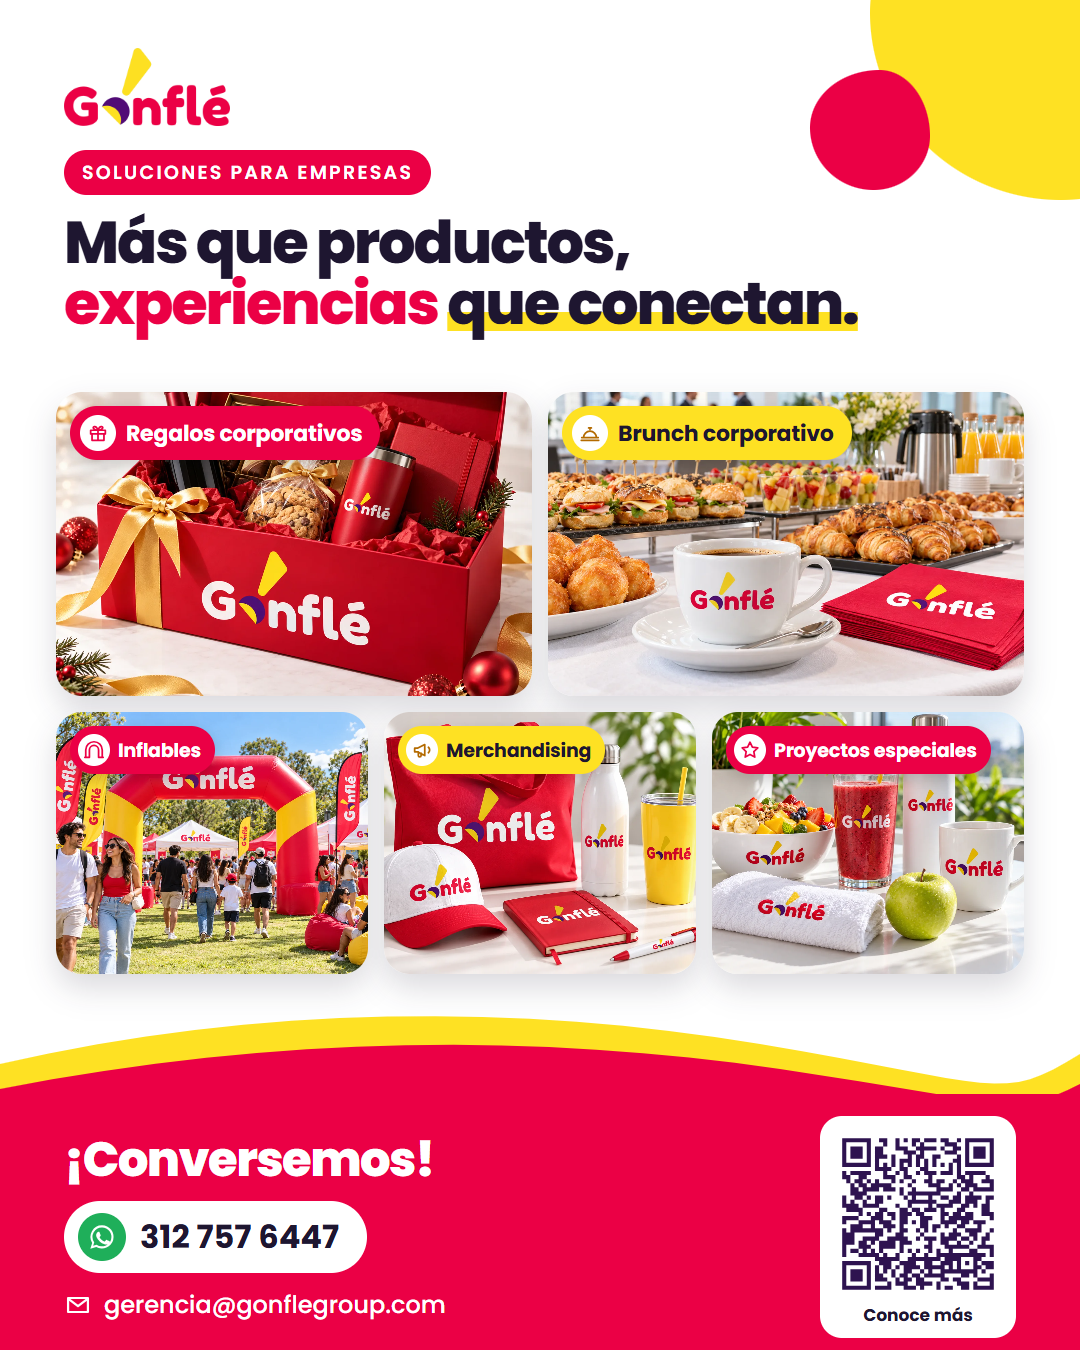
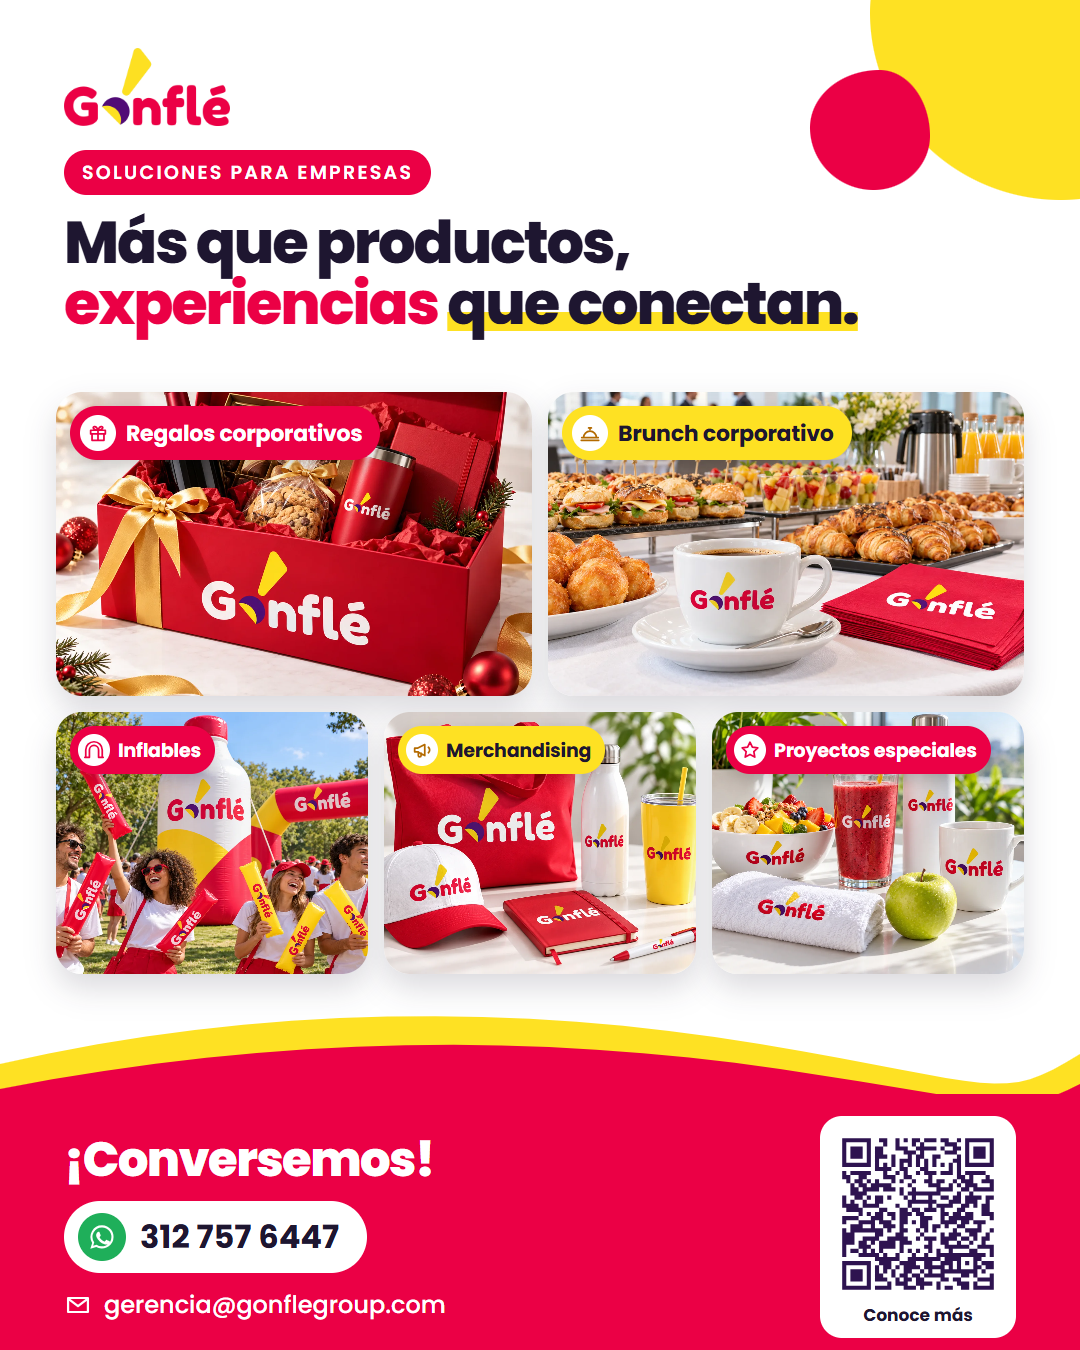
Inflables: foto combinada (opción B) por defecto, también en PDF e imagen de WhatsApp

Changed region(s): [[0.0306, 0.5289, 0.3667, 0.7467]]

diff --git a/index.html b/index.html
@@ -76,7 +76,7 @@ h2{font-size:clamp(1.8rem,3.4vw,2.5rem);font-weight:800;letter-spacing:-.03em}
 .items{margin-bottom:24px;color:var(--tinta);font-size:1.07rem;line-height:1.9}
 .items li{display:inline-block;max-width:100%}
 .items li:not(:last-child)::after{content:"·";color:var(--rojo);font-weight:700;margin:0 10px}
-/* Inflables: A = foto principal y dos pequeñas (por defecto), B = una sola foto combinada, C = tres fotos iguales a lo ancho */
+/* Inflables: B = una sola foto combinada (por defecto, clase inf-b), A = foto principal y dos pequeñas, C = tres fotos iguales a lo ancho */
 .inf-vis{display:grid;grid-template-columns:1fr 1fr;gap:14px}
 .inf-vis figure{margin:0}
 .inf-vis figcaption{margin-top:8px;font-size:.92rem;font-weight:600;color:var(--tinta)}
@@ -251,7 +251,7 @@ footer img{height:38px}
           <a class="enlace" data-wa="catering" href="#" target="_blank" rel="noopener">Cotizar brunch<svg><use href="#i-flecha"/></svg></a>
         </div>
       </article>
-      <article class="linea" id="inflables">
+      <article class="linea inf-b" id="inflables">
         <div class="linea-vis inf-vis">
           <figure class="inf-p"><img src="assets/img/foto-inflables.webp" alt="Arco inflable a motor con el logo de Gonflé en una activación de marca" loading="lazy"><figcaption>Inflables a motor</figcaption></figure>
           <figure class="inf-s"><img src="assets/img/foto-inf-golpeadores.webp" alt="Golpeadores inflables con el logo de Gonflé en un estadio" loading="lazy"><figcaption>Golpeadores en válvula</figcaption></figure>
@@ -371,9 +371,9 @@ const MENSAJES = {
   impresos: "Hola Gonflé, quiero cotizar impresos, empaques o material POP con mi marca.",
   bienestar: "Hola Gonflé, quiero contarles un proyecto especial para mi empresa.",
 };
-// ?inflables=b (una foto combinada) o ?inflables=c (tres fotos a lo ancho); por defecto, foto principal y dos pequeñas
+// Inflables: por defecto una foto combinada (B); ?inflables=a muestra foto principal y dos pequeñas, ?inflables=c tres fotos a lo ancho
 const vInf = new URLSearchParams(location.search).get("inflables");
-if (vInf === "b" || vInf === "c") document.getElementById("inflables").classList.add("inf-" + vInf);
+if (vInf === "a" || vInf === "c") { const s = document.getElementById("inflables"); s.classList.remove("inf-b"); if (vInf === "c") s.classList.add("inf-c"); }
 // ?fotos=gemini muestra la versión anterior de las imágenes (Gemini), guardada como respaldo
 if (new URLSearchParams(location.search).get("fotos") === "gemini") {
   document.querySelectorAll('img[src*="assets/img/foto-"]').forEach((i) => { i.src = i.getAttribute("src").replace("assets/img/foto-", "assets/img/gemini/foto-"); });

diff --git a/fuentes/pdf.html b/fuentes/pdf.html
@@ -115,7 +115,7 @@ h2{font-size:16pt;margin-bottom:.16in}
     <div class="lineas">
       <div class="ln"><div class="ln-foto"><img src="../assets/img/foto-regalos.webp" alt=""></div><div class="ln-txt"><h3>Regalos corporativos y cajas de temporada</h3><ul class="puntos"><li>Cajas personalizadas (se arman a tu gusto)</li><li>Kits empresariales</li><li>Regalos para colaboradores, clientes y proveedores</li><li>Detalles que dejan huella</li></ul></div></div>
       <div class="ln"><div class="ln-foto"><img src="../assets/img/foto-catering.webp" alt=""></div><div class="ln-txt"><h3>Brunch corporativo para eventos</h3><ul class="puntos"><li>Desayunos y brunch</li><li>Refrigerios</li><li>Lunch y almuerzos</li><li>Estaciones de alimentos y eventos corporativos</li></ul></div></div>
-      <div class="ln"><div class="ln-foto"><img src="../assets/img/foto-inflables.webp" alt=""></div><div class="ln-txt"><h3>Inflables y activaciones de marca</h3><ul class="puntos"><li>Inflables publicitarios</li><li>Eventos y activaciones</li><li>Inflables a motor, golpeadores y sellados</li><li>Experiencias de marca a la idea del cliente</li></ul></div></div>
+      <div class="ln"><div class="ln-foto"><img src="../assets/img/foto-inf-mix.webp" alt=""></div><div class="ln-txt"><h3>Inflables y activaciones de marca</h3><ul class="puntos"><li>Inflables publicitarios</li><li>Eventos y activaciones</li><li>Inflables a motor, golpeadores y sellados</li><li>Experiencias de marca a la idea del cliente</li></ul></div></div>
       <div class="ln"><div class="ln-foto"><img src="../assets/img/foto-merch.webp" alt=""></div><div class="ln-txt"><h3>Publicidad y merchandising</h3><ul class="puntos"><li>Productos promocionales</li><li>Textiles personalizados</li><li>Vasos, copas y caramañolas</li></ul></div></div>
       <div class="ln"><div class="ln-foto"><img src="../assets/img/foto-impresos.webp" alt=""></div><div class="ln-txt"><h3>Impresos, empaques y material POP</h3><ul class="puntos"><li>Litografía: cajas, bolsas, calendarios y exhibidores</li><li>Flexografía: plastilonas, banderines y bolsas</li><li>Material sostenible: PET reciclado</li></ul></div></div>
       <div class="ln"><div class="ln-foto"><img src="../assets/img/foto-salud.webp" alt=""></div><div class="ln-txt"><h3>Proyectos especiales y personalizados</h3><ul class="puntos"><li>Semana de la Salud y bienestar</li><li>Fin de año empresarial</li><li>Lanzamientos de producto</li><li>Bienvenida de colaboradores</li></ul></div></div>

diff --git a/fuentes/whatsapp.html b/fuentes/whatsapp.html
@@ -77,7 +77,7 @@ html,body{margin:0;width:1080px;height:1350px;overflow:hidden}
   <div class="fotos">
     <div class="f g"><img src="../assets/img/foto-regalos.webp" alt=""><span class="pill r"><i><svg><use href="#i-regalo"/></svg></i>Regalos corporativos</span></div>
     <div class="f g"><img src="../assets/img/foto-catering.webp" alt=""><span class="pill a"><i><svg><use href="#i-catering"/></svg></i>Brunch corporativo</span></div>
-    <div class="f p"><img src="../assets/img/foto-inflables.webp" alt=""><span class="pill r"><i><svg><use href="#i-inflable"/></svg></i>Inflables</span></div>
+    <div class="f p"><img src="../assets/img/foto-inf-mix.webp" alt=""><span class="pill r"><i><svg><use href="#i-inflable"/></svg></i>Inflables</span></div>
     <div class="f p"><img src="../assets/img/foto-merch.webp" alt=""><span class="pill a"><i><svg><use href="#i-megafono"/></svg></i>Merchandising</span></div>
     <div class="f p"><img src="../assets/img/foto-salud.webp" alt=""><span class="pill r"><i><svg><use href="#i-estrella"/></svg></i>Proyectos especiales</span></div>
   </div>
